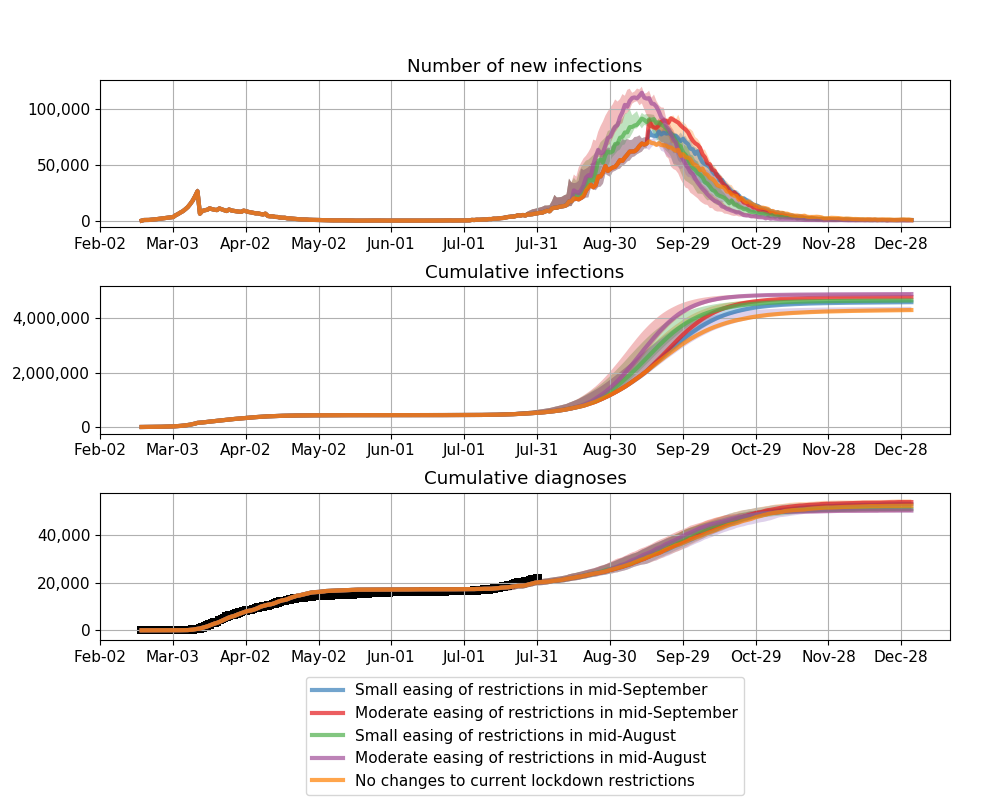
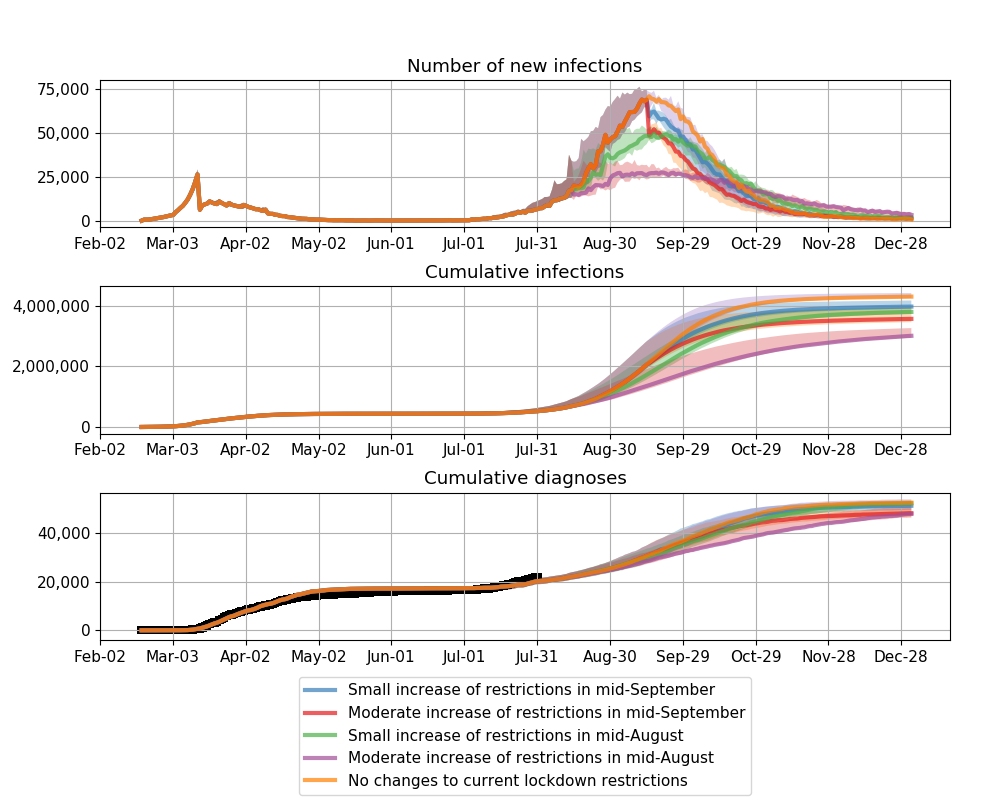
Barcelona further lockdown

diff --git a/applications/Spain/Barcelona_run.py b/applications/Spain/Barcelona_run.py
@@ -42,16 +42,16 @@ if __name__ == "__main__":
     end_dec = mid_nov + 46
 
     # the policies to change during scenario runs
-    scen_opts = {'Barcelona': {'Small easing of restrictions in mid-September': 
+    scen_opts = {'Barcelona': {'Small increase of restrictions in mid-September': 
                               {'replace': (['restrictions'], [['relax1']], [[mid_sep]])},
 
-                            'Moderate easing of restrictions in mid-September': 
+                            'Moderate increase of restrictions in mid-September': 
                               {'replace': (['restrictions'], [['relax2']], [[mid_sep]])},
 
-                            'Small easing of restrictions in mid-August': 
+                            'Small increase of restrictions in mid-August': 
                               {'replace': (['restrictions'], [['relax1']], [[mid_aug]])},
 
-                            'Moderate easing of restrictions in mid-August': 
+                            'Moderate increase of restrictions in mid-August': 
                               {'replace': (['restrictions'], [['relax2']], [[mid_aug]])},
 
                             'No changes to current lockdown restrictions': 
@@ -102,31 +102,31 @@ if __name__ == "__main__":
     seroprev_LB_nov_dec = cum_inf_LB_nov_dec/population
 
     # Mid Bound: small change mid- July    
-    new_inf_MB_sep_oct = sum(scens['scenarios']['Barcelona'].results['new_infections']['Small easing of restrictions in mid-September']['best'][mid_sep:end_oct])    
-    new_diag_MB_sep_oct = sum(scens['scenarios']['Barcelona'].results['new_diagnoses']['Small easing of restrictions in mid-September']['best'][mid_sep:end_oct])    
-    cum_inf_MB_sep_oct = scens['scenarios']['Barcelona'].results['cum_infections']['Small easing of restrictions in mid-September']['best'][end_oct]    
+    new_inf_MB_sep_oct = sum(scens['scenarios']['Barcelona'].results['new_infections']['Small increase of restrictions in mid-September']['best'][mid_sep:end_oct])    
+    new_diag_MB_sep_oct = sum(scens['scenarios']['Barcelona'].results['new_diagnoses']['Small increase of restrictions in mid-September']['best'][mid_sep:end_oct])    
+    cum_inf_MB_sep_oct = scens['scenarios']['Barcelona'].results['cum_infections']['Small increase of restrictions in mid-September']['best'][end_oct]    
     incidence_MB_sep_oct = 100*new_inf_MB_sep_oct*30/(end_oct-mid_sep)/population
     detected_MB_sep_oct = 100*new_diag_MB_sep_oct*30/(end_oct-mid_sep)/population
     seroprev_MB_sep_oct = cum_inf_MB_sep_oct/population
 
-    new_inf_MB_nov_dec = sum(scens['scenarios']['Barcelona'].results['new_infections']['Small easing of restrictions in mid-September']['best'][start_nov:end_dec])    
-    new_diag_MB_nov_dec = sum(scens['scenarios']['Barcelona'].results['new_diagnoses']['Small easing of restrictions in mid-September']['best'][start_nov:end_dec])    
-    cum_inf_MB_nov_dec = scens['scenarios']['Barcelona'].results['cum_infections']['Small easing of restrictions in mid-September']['best'][end_dec]    
+    new_inf_MB_nov_dec = sum(scens['scenarios']['Barcelona'].results['new_infections']['Small increase of restrictions in mid-September']['best'][start_nov:end_dec])    
+    new_diag_MB_nov_dec = sum(scens['scenarios']['Barcelona'].results['new_diagnoses']['Small increase of restrictions in mid-September']['best'][start_nov:end_dec])    
+    cum_inf_MB_nov_dec = scens['scenarios']['Barcelona'].results['cum_infections']['Small increase of restrictions in mid-September']['best'][end_dec]    
     incidence_MB_nov_dec = 100*new_inf_MB_nov_dec*30/(end_dec-start_nov)/population
     detected_MB_nov_dec = 100*new_diag_MB_nov_dec*30/(end_dec-start_nov)/population
     seroprev_MB_nov_dec = cum_inf_MB_nov_dec/population
 
     # Upper Bound: moderate change mid-September    
-    new_inf_UB_sep_oct = sum(scens['scenarios']['Barcelona'].results['new_infections']['Moderate easing of restrictions in mid-August']['best'][mid_sep:end_oct])    
-    new_diag_UB_sep_oct = sum(scens['scenarios']['Barcelona'].results['new_diagnoses']['Moderate easing of restrictions in mid-August']['best'][mid_sep:end_oct])    
-    cum_inf_UB_sep_oct = scens['scenarios']['Barcelona'].results['cum_infections']['Moderate easing of restrictions in mid-August']['best'][end_oct]    
+    new_inf_UB_sep_oct = sum(scens['scenarios']['Barcelona'].results['new_infections']['Moderate increase of restrictions in mid-August']['best'][mid_sep:end_oct])    
+    new_diag_UB_sep_oct = sum(scens['scenarios']['Barcelona'].results['new_diagnoses']['Moderate increase of restrictions in mid-August']['best'][mid_sep:end_oct])    
+    cum_inf_UB_sep_oct = scens['scenarios']['Barcelona'].results['cum_infections']['Moderate increase of restrictions in mid-August']['best'][end_oct]    
     incidence_UB_sep_oct = 100*new_inf_UB_sep_oct*30/(end_oct-mid_sep)/population
     detected_UB_sep_oct = 100*new_diag_UB_sep_oct*30/(end_oct-mid_sep)/population
     seroprev_UB_sep_oct = cum_inf_UB_sep_oct/population
 
-    new_inf_UB_nov_dec = sum(scens['scenarios']['Barcelona'].results['new_infections']['Moderate easing of restrictions in mid-August']['best'][start_nov:end_dec])    
-    new_diag_UB_nov_dec = sum(scens['scenarios']['Barcelona'].results['new_diagnoses']['Moderate easing of restrictions in mid-August']['best'][start_nov:end_dec])    
-    cum_inf_UB_nov_dec = scens['scenarios']['Barcelona'].results['cum_infections']['Moderate easing of restrictions in mid-August']['best'][end_dec]    
+    new_inf_UB_nov_dec = sum(scens['scenarios']['Barcelona'].results['new_infections']['Moderate increase of restrictions in mid-August']['best'][start_nov:end_dec])    
+    new_diag_UB_nov_dec = sum(scens['scenarios']['Barcelona'].results['new_diagnoses']['Moderate increase of restrictions in mid-August']['best'][start_nov:end_dec])    
+    cum_inf_UB_nov_dec = scens['scenarios']['Barcelona'].results['cum_infections']['Moderate increase of restrictions in mid-August']['best'][end_dec]    
     incidence_UB_nov_dec = 100*new_inf_UB_nov_dec*30/(end_dec-start_nov)/population
     detected_UB_nov_dec = 100*new_diag_UB_nov_dec*30/(end_dec-start_nov)/population
     seroprev_UB_nov_dec = cum_inf_UB_nov_dec/population
@@ -157,43 +157,43 @@ if __name__ == "__main__":
 
 
     daily_inf_small_aug = scens['scenarios'][locations[0]].results['new_infections'][
-                              'Small easing of restrictions in mid-August'] \
+                              'Small increase of restrictions in mid-August'] \
                               ['best'][mid_july:end_dec]
     daily_death_small_aug = scens['scenarios'][locations[0]].results['new_deaths'][
-                                'Small easing of restrictions in mid-August'] \
+                                'Small increase of restrictions in mid-August'] \
                                 ['best'][mid_july:end_dec]
     daily_diag_small_aug = scens['scenarios'][locations[0]].results['new_diagnoses'][
-                               'Small easing of restrictions in mid-August'] \
+                               'Small increase of restrictions in mid-August'] \
                                ['best'][mid_july:end_dec]
 
     daily_inf_mod_aug = scens['scenarios'][locations[0]].results['new_infections'][
-                            'Moderate easing of restrictions in mid-August'] \
+                            'Moderate increase of restrictions in mid-August'] \
                             ['best'][mid_july:end_dec]
     daily_death_mod_aug = scens['scenarios'][locations[0]].results['new_deaths'][
-                              'Moderate easing of restrictions in mid-August'] \
+                              'Moderate increase of restrictions in mid-August'] \
                               ['best'][mid_july:end_dec]
     daily_diag_mod_aug = scens['scenarios'][locations[0]].results['new_diagnoses'][
-                             'Moderate easing of restrictions in mid-August'] \
+                             'Moderate increase of restrictions in mid-August'] \
                              ['best'][mid_july:end_dec]
 
     daily_inf_small_sep = scens['scenarios'][locations[0]].results['new_infections'][
-                              'Small easing of restrictions in mid-September'] \
+                              'Small increase of restrictions in mid-September'] \
                               ['best'][mid_july:end_dec]
     daily_death_small_sep = scens['scenarios'][locations[0]].results['new_deaths'][
-                                'Small easing of restrictions in mid-September'] \
+                                'Small increase of restrictions in mid-September'] \
                                 ['best'][mid_july:end_dec]
     daily_diag_small_sep = scens['scenarios'][locations[0]].results['new_diagnoses'][
-                               'Small easing of restrictions in mid-September'] \
+                               'Small increase of restrictions in mid-September'] \
                                ['best'][mid_july:end_dec]
 
     daily_inf_mod_sep = scens['scenarios'][locations[0]].results['new_infections'][
-                            'Moderate easing of restrictions in mid-September'] \
+                            'Moderate increase of restrictions in mid-September'] \
                             ['best'][mid_july:end_dec]
     daily_death_mod_sep = scens['scenarios'][locations[0]].results['new_deaths'][
-                              'Moderate easing of restrictions in mid-September'] \
+                              'Moderate increase of restrictions in mid-September'] \
                               ['best'][mid_july:end_dec]
     daily_diag_mod_sep = scens['scenarios'][locations[0]].results['new_diagnoses'][
-                             'Moderate easing of restrictions in mid-September'] \
+                             'Moderate increase of restrictions in mid-September'] \
                              ['best'][mid_july:end_dec]
 
     daily_inf_no_release = scens['scenarios'][locations[0]].results['new_infections']['No changes to current lockdown restrictions'] \
@@ -206,22 +206,22 @@ if __name__ == "__main__":
     daily_projections = [
         ['Dates'] + [str(d) for d in pd.date_range(sdate, edate - timedelta(days=1), freq='d')],
         ['New infections'],
-        ['Small easing of restrictions in mid-August'] + [int(val) for val in daily_inf_small_aug],
-        ['Moderate easing of restrictions in mid-August'] + [int(val) for val in daily_inf_mod_aug],
-        ['Small easing of restrictions in mid-September'] + [int(val) for val in daily_inf_small_sep],
-        ['Moderate easing of restrictions in mid-September'] + [int(val) for val in daily_inf_mod_sep],
+        ['Small increase of restrictions in mid-August'] + [int(val) for val in daily_inf_small_aug],
+        ['Moderate increase of restrictions in mid-August'] + [int(val) for val in daily_inf_mod_aug],
+        ['Small increase of restrictions in mid-September'] + [int(val) for val in daily_inf_small_sep],
+        ['Moderate increase of restrictions in mid-September'] + [int(val) for val in daily_inf_mod_sep],
         ['No changes to current lockdown restrictions'] + [int(val) for val in daily_inf_no_release],
         ['New deaths'],
-        ['Small easing of restrictions in mid-August'] + [int(val) for val in daily_death_small_aug],
-        ['Moderate easing of restrictions in mid-August'] + [int(val) for val in daily_death_mod_aug],
-        ['Small easing of restrictions in mid-September'] + [int(val) for val in daily_death_small_sep],
-        ['Moderate easing of restrictions in mid-September'] + [int(val) for val in daily_death_mod_sep],
+        ['Small increase of restrictions in mid-August'] + [int(val) for val in daily_death_small_aug],
+        ['Moderate increase of restrictions in mid-August'] + [int(val) for val in daily_death_mod_aug],
+        ['Small increase of restrictions in mid-September'] + [int(val) for val in daily_death_small_sep],
+        ['Moderate increase of restrictions in mid-September'] + [int(val) for val in daily_death_mod_sep],
         ['No changes to current lockdown restrictions'] + [int(val) for val in daily_death_no_release],
         ['New diagnoses'],
-        ['Small easing of restrictions in mid-August'] + [int(val) for val in daily_diag_small_aug],
-        ['Moderate easing of restrictions in mid-August'] + [int(val) for val in daily_diag_mod_aug],
-        ['Small easing of restrictions in mid-September'] + [int(val) for val in daily_diag_small_sep],
-        ['Moderate easing of restrictions in mid-September'] + [int(val) for val in daily_diag_mod_sep],
+        ['Small increase of restrictions in mid-August'] + [int(val) for val in daily_diag_small_aug],
+        ['Moderate increase of restrictions in mid-August'] + [int(val) for val in daily_diag_mod_aug],
+        ['Small increase of restrictions in mid-September'] + [int(val) for val in daily_diag_small_sep],
+        ['Moderate increase of restrictions in mid-September'] + [int(val) for val in daily_diag_mod_sep],
         ['No changes to current lockdown restrictions'] + [int(val) for val in daily_diag_no_release]]
     worksheet2.add_table('A1:FO20', {'data': daily_projections})
     workbook.close()
